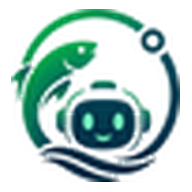
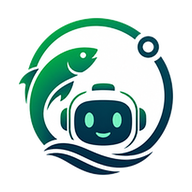
Add files via upload

diff --git a/index.html b/index.html
@@ -1,5 +1,5 @@
 <!doctype html><html lang="fr"><head><meta charset="utf-8"><meta name="viewport" content="width=device-width,initial-scale=1,viewport-fit=cover">
-<title>Mon Technicien — Nexus V3</title><meta name="theme-color" content="#0b5d66"><link rel="manifest" href="manifest.webmanifest"><link rel="icon" href="nexusmt-icon-192.png"><link rel="apple-touch-icon" href="nexusmt-icon-192.png">
+<title>Mon Technicien — Nexus V3</title><meta name="theme-color" content="#0b5d66"><meta name="mobile-web-app-capable" content="yes"><meta name="apple-mobile-web-app-capable" content="yes"><meta name="apple-mobile-web-app-title" content="Mon Technicien"><link rel="manifest" href="manifest.webmanifest"><link rel="icon" href="nexusmt-icon-192.png"><link rel="apple-touch-icon" href="nexusmt-apple-180.png">
 <style>:root{--p:#0b5d66;--a:#f2a93b;--bg:#f4f7f8;--tx:#16282b;--mu:#5b6f73}*{box-sizing:border-box}body{margin:0;font:16px/1.45 system-ui,-apple-system,Segoe UI,Roboto,sans-serif;background:var(--bg);color:var(--tx);padding:56px 0 76px}
 header{position:fixed;top:0;left:0;right:0;height:52px;background:var(--p);color:#fff;display:flex;align-items:center;gap:8px;padding:0 16px;z-index:5;padding-top:env(safe-area-inset-top)}header img{border-radius:8px;background:#fff}header span{background:var(--a);color:#2a1d00;font-size:12px;font-weight:700;border-radius:99px;padding:2px 8px}
 main{max-width:640px;margin:0 auto;padding:12px 14px}h2{font-size:17px;margin:20px 2px 8px}h2 small{font-weight:400;color:var(--mu)}h3{margin:6px 0}.sub{color:var(--mu);font-size:14px}
@@ -16,8 +16,8 @@ nav{position:fixed;bottom:0;left:0;right:0;display:flex;background:#fff;box-shad
 .bar{display:flex;flex-wrap:wrap;gap:0 16px;margin:0}
 #maj{position:fixed;inset:0;background:#16282bb3;display:flex;align-items:center;justify-content:center;padding:20px;z-index:20}.majc{background:#fff;border-radius:14px;padding:18px;max-width:420px;width:100%;box-shadow:0 4px 18px #0005}.majc p{margin:8px 0 14px}
 #toast{position:fixed;left:14px;right:14px;bottom:84px;background:#16282b;color:#fff;padding:12px 14px;border-radius:12px;opacity:0;pointer-events:none;transition:.2s;z-index:9}#toast.show{opacity:1}#toast.err{background:#c62828}
-@media print{header,nav,#toast,.btn,.lnk,.seg,.bar{display:none!important}body{padding:0}}</style></head>
[1 lines of base64/hex data omitted]
+@media print{header,nav,#toast,.btn,.lnk,.seg,.bar{display:none!important}body{padding:0}}#boot{position:fixed;inset:0;z-index:30;background:#0b5d66;color:#fff;display:flex;flex-direction:column;align-items:center;justify-content:center;gap:14px;transition:opacity .25s}#boot img{width:112px;height:112px}#boot b{font:600 20px system-ui,sans-serif}#boot.fin{opacity:0;pointer-events:none}</style></head>
[1 lines of base64/hex data omitted]
 <nav aria-label="Navigation principale"><button data-go="accueil">Accueil</button><button data-go="saisie">Saisie</button><button data-go="nexus">Nexus</button><button data-go="resultats">Résultats</button><button data-go="plus">Plus</button></nav>
 <script>const __m = {};
 __m.reference = (() => { 
@@ -1299,10 +1299,11 @@ document.addEventListener('change', async (e) => {
 });
 document.addEventListener('click', async (e) => { const b = e.target.closest('[data-an]'); if (!b) return; const m = S.mesures.find((x) => x.id === b.dataset.an); if (!m) return; const motif = (prompt('Motif de l\'annulation (obligatoire) :') || '').trim(); if (!motif) return toast('Motif obligatoire : annulation abandonnée.', true); await put('mesures', { ...m, annule: { motif, t: Date.now() } }); await charger(); toast('Enregistrement annulé (trace conservée).'); rendre(); });
 addEventListener('online', rendre); addEventListener('offline', rendre);
+const fermerBoot = () => { const b = document.getElementById('boot'); if (b) { b.classList.add('fin'); setTimeout(() => b.remove(), 300); } };
 (async () => {
-  try { navigator.storage?.persist?.(); await charger(); } catch (e) { $('#v').innerHTML = `<div class="card"><h3>Stockage indisponible</h3><p>${esc(e.message)}</p></div>`; return; }
-  try { await C.observer('OUVERTURE'); S.ch = await C.lire(); } catch (e) { $('#v').innerHTML = `<div class="card"><h3>Démarrage impossible</h3><p>${esc(e.message)}</p></div>`; return; }
-  rendre();
+  try { navigator.storage?.persist?.(); await charger(); } catch (e) { $('#v').innerHTML = `<div class="card"><h3>Stockage indisponible</h3><p>${esc(e.message)}</p></div>`; fermerBoot(); return; }
+  try { await C.observer('OUVERTURE'); S.ch = await C.lire(); } catch (e) { $('#v').innerHTML = `<div class="card"><h3>Démarrage impossible</h3><p>${esc(e.message)}</p></div>`; fermerBoot(); return; }
+  rendre(); fermerBoot();
   const obs = (e) => C.observer(e).then(async () => { S.ch = await C.lire(); if (S.vue === 'plus') rendre(); }).catch(() => {});
   setInterval(() => !document.hidden && obs('PERIODIQUE'), 6e4); document.addEventListener('visibilitychange', () => !document.hidden && obs('RETOUR_APPLICATION'));
   if ('serviceWorker' in navigator && /^https?:$/.test(location.protocol)) navigator.serviceWorker.register('./sw.js').then((r) => r.addEventListener('updatefound', () => toast('Nouvelle version prête : rouvrez l\'application.'))).catch(() => {});

diff --git a/sw.js b/sw.js
@@ -1,4 +1,4 @@
-const V = 'mt-v28', FICHIERS = ['./', 'index.html', 'manifest.webmanifest', 'nexusmt-icon-192.png', 'nexusmt-icon-512.png', 'nexusmt-icon-maskable-512.png'];
-self.addEventListener('install', (e) => e.waitUntil(caches.open(V).then((c) => c.addAll(FICHIERS)).then(() => self.skipWaiting())));
+const V = 'mt-v30', FICHIERS = ['./', 'index.html', 'manifest.webmanifest', 'nexusmt-icon-192.png', 'nexusmt-icon-512.png', 'nexusmt-icon-maskable-512.png', 'nexusmt-apple-180.png'];
+self.addEventListener('install', (e) => e.waitUntil(caches.open(V).then((c) => c.addAll(['./', 'index.html']).then(() => Promise.all(FICHIERS.slice(2).map((f) => c.add(f).catch(() => {}))))).then(() => self.skipWaiting())));
 self.addEventListener('activate', (e) => e.waitUntil(caches.keys().then((k) => Promise.all(k.filter((n) => n !== V).map((n) => caches.delete(n)))).then(() => self.clients.claim())));
 self.addEventListener('fetch', (e) => { if (e.request.method !== 'GET') return; e.respondWith(caches.match(e.request, { ignoreSearch: true }).then((r) => r || fetch(e.request).catch(() => (e.request.mode === 'navigate' ? caches.match('index.html') : Response.error())))); });
